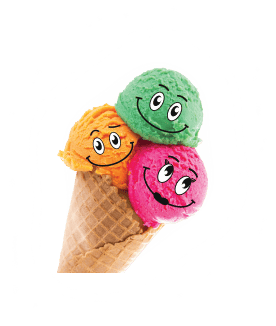
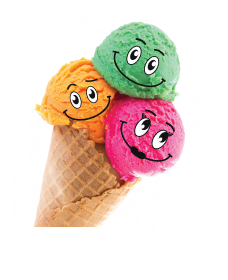
hero-final-fix
correction of remarks

diff --git a/src/sass/components/_hero.scss b/src/sass/components/_hero.scss
@@ -133,7 +133,7 @@ a {
             display: none;
         }
         .hero__horn-ice {
-          height: 370px;
+          height: 320px;
           width: auto;
         } 
   }
@@ -144,7 +144,7 @@ a {
         z-index:13;
         top:50%;
         left:50%;
-        transform: translate(-50%, -23%);
+        transform: translate(-48%, -10%);
        
     }
 
@@ -439,6 +439,7 @@ a {
     .hero__list {
     display: flex;
     list-style: none;
+    padding-left: 0;
     }
    
     .hero__icon--arrow,
